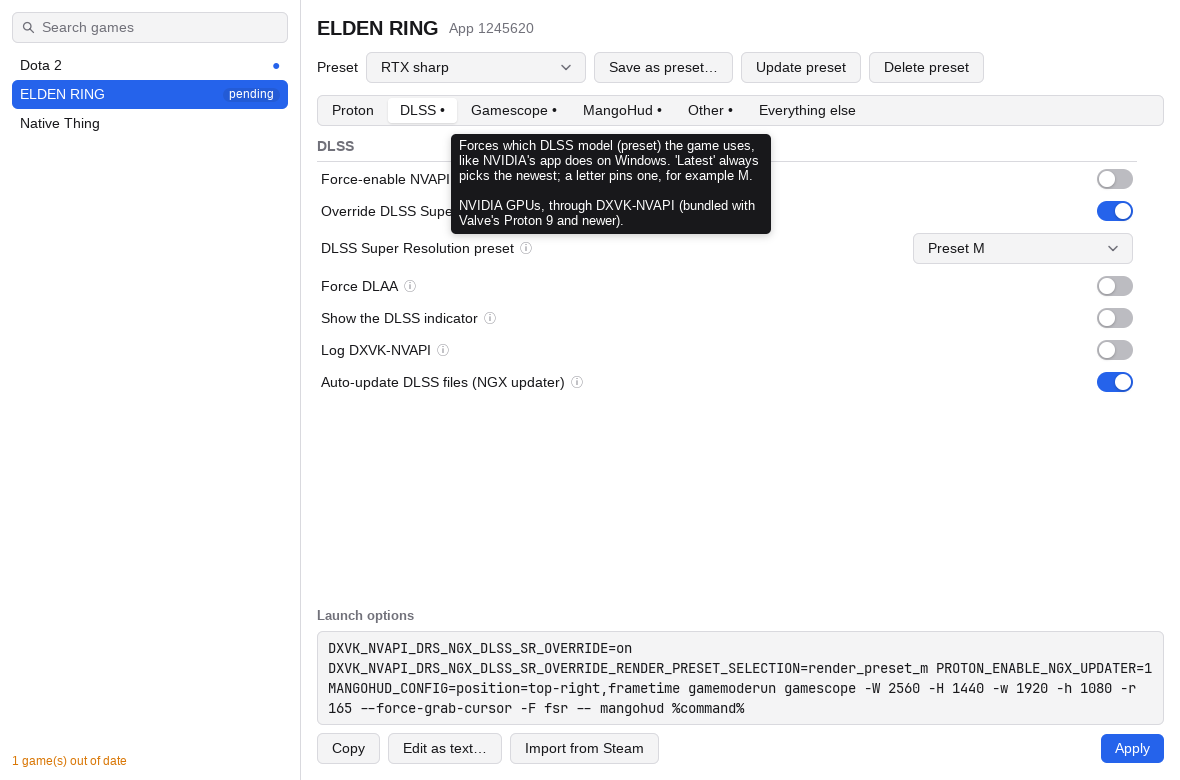
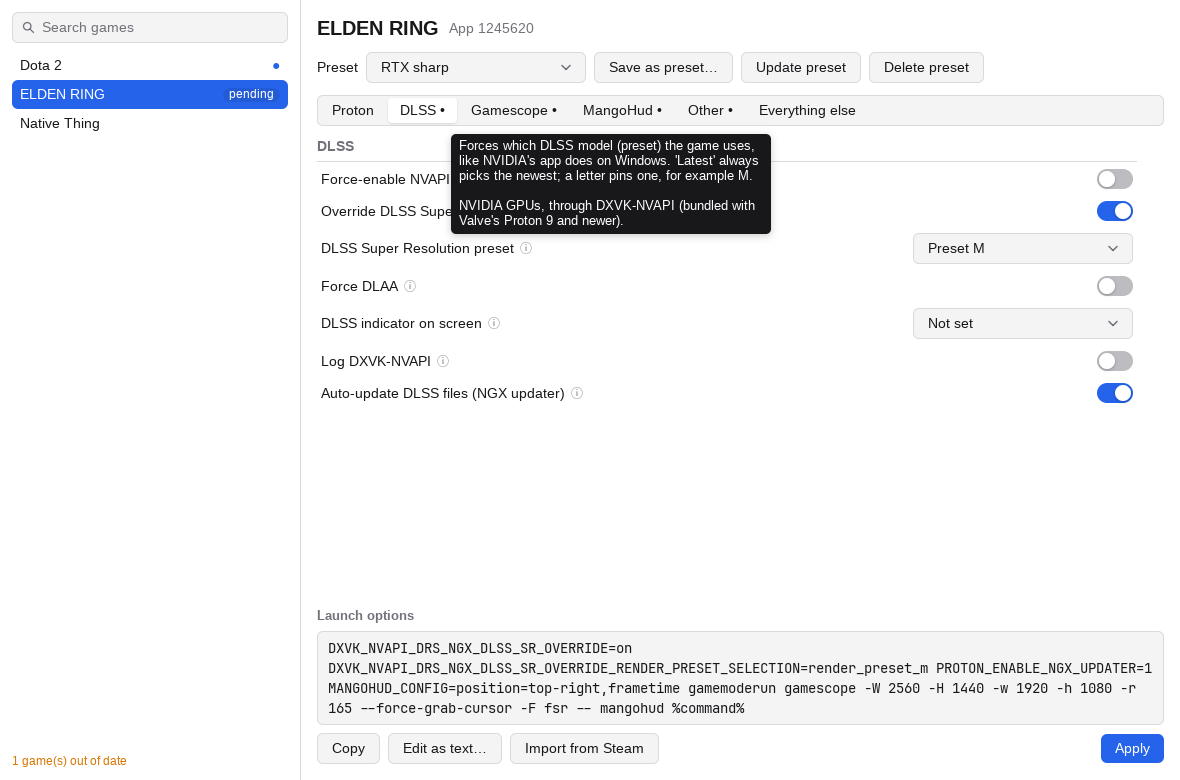
Fix preset relinking, DLSS indicator semantics, platform field and spike safety
Claude-Session: https://claude.ai/code/session_01Uzzph7hZFHLNwT3RTSzUhu

Changed region(s): [[0.2746, 0.4, 0.4881, 0.5231], [0.9153, 0.4, 0.9763, 0.5231], [0.7932, 0.4, 0.8237, 0.4308]]

diff --git a/internal/catalog/data.go b/internal/catalog/data.go
@@ -102,9 +102,10 @@ func Default() *Catalog {
 		{ID: "dlss.dlaa", Group: "DLSS", Label: "Force DLAA", Support: supportNVAPI,
 			Help: "DLAA runs DLSS at the full render resolution for the best anti-aliasing instead of upscaling. Forces it on in games that offer DLSS.",
 			Kind: Bool, Slot: SlotEnv, Name: "DXVK_NVAPI_DRS_NGX_DLAA_OVERRIDE", OnValue: "on"},
-		{ID: "dlss.indicator", Group: "DLSS", Label: "Show the DLSS indicator", Support: supportNVAPI + " Permanently changes the game's Wine registry.",
-			Help: "Shows NVIDIA's on-screen DLSS and frame generation indicator, so you can see that DLSS is active and which preset is used. It writes to the Wine prefix registry and stays on until you turn it off in this tool.",
-			Kind: Bool, Slot: SlotEnv, Name: "DXVK_NVAPI_SET_NGX_DEBUG_OPTIONS", OnValue: "DLSSIndicator=1024,DLSSGIndicator=2"},
+		{ID: "dlss.indicator", Group: "DLSS", Label: "DLSS indicator on screen", Support: supportNVAPI + " Permanently changes the game's Wine registry.",
+			Help: "Show displays NVIDIA's on-screen DLSS and frame generation indicator, so you can see that DLSS is active. The setting is written to the game's Wine prefix registry and STAYS after you remove this option. To get rid of the indicator, set Hide and start the game once, then set it back to Not set.",
+			Kind: Select, Slot: SlotEnv, Name: "DXVK_NVAPI_SET_NGX_DEBUG_OPTIONS",
+			Choices: []Choice{{"DLSSIndicator=1024,DLSSGIndicator=2", "Show"}, {"DLSSIndicator=0,DLSSGIndicator=0", "Hide (clears a shown indicator)"}}},
 		{ID: "dlss.log", Group: "DLSS", Label: "Log DXVK-NVAPI", Support: supportNVAPI,
 			Help: "Prints DXVK-NVAPI log messages. Useful when DLSS does not show up in a game.",
 			Kind: Bool, Slot: SlotEnv, Name: "DXVK_NVAPI_LOG_LEVEL", OnValue: "info"},

diff --git a/internal/store/store_test.go b/internal/store/store_test.go
@@ -28,12 +28,22 @@ func TestPresetCRUDAndPersistence(t *testing.T) {
 		t.Fatal(err)
 	}
 	a, _ := s.SavePreset(Preset{Name: "Native 1440p 165Hz!", Selection: mk(c, "gs.out_w", "2560")})
-	b, _ := s.SavePreset(Preset{Name: "Native 1440p 165Hz!", Selection: catalog.Selection{}})
+	b, _ := s.SavePreset(Preset{Name: "Native 1440p 165Hz?", Selection: catalog.Selection{}}) // same slug, different name
 	if a.ID != "native-1440p-165hz" || b.ID != "native-1440p-165hz-2" {
 		t.Fatalf("ids %q %q", a.ID, b.ID)
 	}
 	if _, err := s.SavePreset(Preset{Name: "  "}); err == nil {
 		t.Error("empty name accepted")
+	}
+	if _, err := s.SavePreset(Preset{Name: "native 1440P 165hz!"}); err == nil {
+		t.Error("duplicate name (case-insensitive) accepted")
+	}
+	if _, err := s.SavePreset(Preset{Name: "no preset"}); err == nil {
+		t.Error("reserved name accepted")
+	}
+	// renaming a preset to its own name, or updating it, is fine
+	if _, err := s.SavePreset(Preset{ID: a.ID, Name: "Native 1440p 165Hz!", Selection: a.Selection}); err != nil {
+		t.Errorf("updating a preset failed: %v", err)
 	}
 	// custom pieces are stripped from presets
 	p, _ := s.SavePreset(Preset{Name: "x", Selection: catalog.Selection{CustomArgs: []string{"-a"}}})
@@ -46,7 +56,7 @@ func TestPresetCRUDAndPersistence(t *testing.T) {
 	if err != nil {
 		t.Fatal(err)
 	}
-	if len(s2.Presets()) != 3 {
+	if len(s2.Presets()) != 3 { // a, b and "x"
 		t.Fatalf("presets %v", s2.Presets())
 	}
 	if got, ok := s2.Assignment("570"); !ok || got.Overrides["gs.refresh"] != "144" {

diff --git a/internal/ui/view.go b/internal/ui/view.go
@@ -6,6 +6,7 @@ import (
 	"github.com/egoist/mygo/ui"
 
 	"github.com/secato/slom/internal/catalog"
+	"github.com/secato/slom/internal/store"
 )
 
 // View builds the whole window.
@@ -141,9 +142,9 @@ func (a *App) steamBanner(c *ui.Context) {
 func (a *App) presetBar(c *ui.Context) {
 	t := c.Theme()
 	presets := a.store.Presets()
-	labels := []string{"No preset"}
-	byLabel := map[string]string{"No preset": ""}
-	cur := "No preset"
+	labels := []string{store.NoPresetLabel}
+	byLabel := map[string]string{store.NoPresetLabel: ""}
+	cur := store.NoPresetLabel
 	for _, p := range presets {
 		labels = append(labels, p.Name)
 		byLabel[p.Name] = p.ID
@@ -153,9 +154,8 @@ func (a *App) presetBar(c *ui.Context) {
 	}
 	ui.Row(c).Gap(8).Children(func() {
 		ui.Text(c, "Preset").Tooltip("A preset is a reusable set of options. A game linked to a preset follows it; the changes you make to this game are kept as its own overrides (marked •).")
-		ui.Select(c.Key("preset"), &cur, labels).Label("Preset").Width(220)
-		if id := byLabel[cur]; id != a.presetID {
-			a.choosePreset(id)
+		if ui.Select(c.Key("preset"), &cur, labels).Label("Preset").Width(220).Changed() {
+			a.choosePreset(byLabel[cur])
 		}
 		ui.Button(c, "Save as preset…").Tooltip("Save the current settings as a new preset and link this game to it.").OnClick(func() {
 			a.presetName, a.savingPreset = "", true

diff --git a/internal/store/store.go b/internal/store/store.go
@@ -16,6 +16,9 @@ import (
 	"github.com/secato/slom/internal/catalog"
 )
 
+// NoPresetLabel is what the UI shows for a game without a preset, so no preset may use it.
+const NoPresetLabel = "No preset"
+
 // Preset is a named, reusable selection.
 type Preset struct {
 	ID        string            `json:"id"`
@@ -156,8 +159,16 @@ func (s *Store) SavePreset(p Preset) (Preset, error) {
 	if p.Name == "" {
 		return Preset{}, errors.New("a preset needs a name")
 	}
+	if strings.EqualFold(p.Name, NoPresetLabel) {
+		return Preset{}, fmt.Errorf("%q is reserved; pick another name", NoPresetLabel)
+	}
 	s.mu.Lock()
 	defer s.mu.Unlock()
+	for _, q := range s.presets {
+		if q.ID != p.ID && strings.EqualFold(q.Name, p.Name) {
+			return Preset{}, fmt.Errorf("a preset named %q already exists", q.Name)
+		}
+	}
 	p.Selection = p.Selection.Clone()
 	// A preset is a set of options; verbatim pieces of one game's launch line do not belong in it.
 	p.Selection.CustomEnv, p.Selection.CustomWrap, p.Selection.CustomArgs, p.Selection.ExtraArgs = nil, nil, nil, nil

diff --git a/internal/ui/ui_test.go b/internal/ui/ui_test.go
@@ -123,6 +123,28 @@ func TestPresetFlow(t *testing.T) {
 	}
 }
 
+func TestPresetBarDoesNotRelinkGames(t *testing.T) {
+	a := testApp(t)
+	tt := ui.NewTester(a.View, 1180, 780)
+	tt.Click("Dota 2")
+	a.saveAsPreset("Alpha")
+	if err := a.store.SetAssignment("570", store.Assignment{PresetID: "alpha", Overrides: map[string]string{"gs.refresh": "60"}}); err != nil {
+		t.Fatal(err)
+	}
+	a.selectGame(a.cur)
+	// a second preset can no longer share the name, so the select's label is unambiguous
+	if _, err := a.store.SavePreset(store.Preset{Name: "alpha"}); err == nil {
+		t.Fatal("duplicate preset name accepted")
+	}
+	for range 5 {
+		tt.Frame()
+	}
+	as, _ := a.store.Assignment("570")
+	if a.presetID != "alpha" || as.PresetID != "alpha" || as.Overrides["gs.refresh"] != "60" {
+		t.Fatalf("frames relinked the game: preset %q, assignment %+v", a.presetID, as)
+	}
+}
+
 func TestMissingToolDisablesOption(t *testing.T) {
 	a := testApp(t)
 	a.tools = catalog.Tools{"gamescope": true, "mangohud": true, "gamemoderun": false}

diff --git a/internal/render/render_test.go b/internal/render/render_test.go
@@ -37,7 +37,7 @@ func TestRender(t *testing.T) {
 		{"custom pieces keep their place",
 			catalog.Selection{CustomEnv: []string{"FOO=bar"}, CustomWrap: []string{"taskset", "-c", "0-3"}, CustomArgs: []string{"-windowed", "'a b'"}},
 			all, "FOO=bar taskset -c 0-3 %command% -windowed 'a b'"},
-		{"indicator value is not mangled", sel(c, "dlss.indicator", "1"),
+		{"indicator value is not mangled", sel(c, "dlss.indicator", "DLSSIndicator=1024,DLSSGIndicator=2"),
 			all, "DXVK_NVAPI_SET_NGX_DEBUG_OPTIONS=DLSSIndicator=1024,DLSSGIndicator=2 %command%"},
 	}
 	for _, tc := range tests {

diff --git a/internal/catalog/catalog_test.go b/internal/catalog/catalog_test.go
@@ -10,6 +10,9 @@ func TestDefaultCatalogIsWellFormed(t *testing.T) {
 	c := Default() // New panics on duplicate ids or dangling references
 	seen := map[string]bool{}
 	for _, o := range c.Options {
+		if o.Platform != "linux" {
+			t.Errorf("%s: platform %q, want linux for v1", o.ID, o.Platform)
+		}
 		if o.Label == "" || o.Help == "" || o.Group == "" {
 			t.Errorf("%s: label, help and group are required (tooltips are mandatory)", o.ID)
 		}

diff --git a/internal/catalog/option.go b/internal/catalog/option.go
@@ -47,6 +47,9 @@ type Option struct {
 	Help    string // tooltip text: what it does and when to use it
 	Support string // which Proton builds or hardware it works with; shown in the tooltip
 
+	// Platform is the OS the option applies to; New fills in "linux" when empty.
+	Platform string
+
 	Kind Kind
 	Slot Slot
 	Name string // env variable, wrapper program, flag or config key, as rendered

diff --git a/internal/catalog/selection.go b/internal/catalog/selection.go
@@ -61,6 +61,9 @@ func New(opts []Option) *Catalog {
 	c := &Catalog{Options: opts, byID: map[string]*Option{}}
 	for i := range c.Options {
 		o := &c.Options[i]
+		if o.Platform == "" {
+			o.Platform = "linux"
+		}
 		if _, dup := c.byID[o.ID]; dup {
 			panic("catalog: duplicate option id " + o.ID)
 		}

diff --git a/docs/SPIKE-TEST-BUTTON.md b/docs/SPIKE-TEST-BUTTON.md
@@ -13,12 +13,16 @@ and drop Test if it does not carry wrappers and env vars.
   match what Steam really does, so a "test" could mislead.
 
 ## Not verified empirically
-Running the real experiment starts the user's Steam and touches their session, so it was
-not done automatically. `scripts/spike-test-launch.sh <appid>` runs it safely (its wrapper
-records what Steam passed and never starts the game). Run it with Steam open:
+The decision above rests on documentation, **not on running the experiment**, even though
+the owner asked for a real spike. Running it launches a game through the owner's Steam, so
+it was not done unattended. `scripts/spike-test-launch.sh <appid>` runs it. Its wrapper
+records what Steam passed and does not start the game, but only if Steam honors the wrapper:
+if Steam treats the URL options as plain game arguments, **the real game starts**, so use an
+offline game without anticheat. Steam may also ask for confirmation, which makes the result
+inconclusive. Run it with Steam open:
 
 - If it prints `RESULT: works`, Test can be built: in `internal/ui`, a "Test" button next to
   Apply that calls `install.Start("steam://run/<id>//<url-encoded options>/")` (Steam must
   be running, the opposite of Apply), with a note that the launch is temporary and Apply
   makes it permanent.
-- Otherwise nothing to do; the UI already has no Test button.
+- If it reports no wrapper ran (and no confirmation dialog was pending), keep Test dropped; the UI already has no Test button.

diff --git a/docs/PROGRESS.md b/docs/PROGRESS.md
@@ -44,3 +44,14 @@ All milestones are done and committed; `go build ./... && go vet ./... && go tes
 - Proton version selection (`CompatToolMapping` in `config.vdf`) is out of scope for v1.
 - The UI has only been exercised through MyGo's `Tester` and an 8 s real launch smoke test; a human pass on a real desktop (Apply against a real Steam, Flatpak Steam, multiple accounts) is still due.
 - Windows support: the catalog has no platform field in use yet (the spec reserved one); `steam/detach_linux.go` is Linux-only.
+
+## Follow-up fixes after review
+- Preset names are unique (case-insensitive) and "No preset" is reserved (`store.SavePreset`); the preset select only relinks on `Changed()` (it used to relink games every frame when names collided).
+- DLSS indicator is a Show/Hide select (see CATALOG.md).
+- `Option.Platform` exists and is `"linux"` for every option (asserted in tests).
+- Spike script now warns that the game may really start and asks for confirmation.
+
+## Known limitations (not fixed)
+- `TokenField` splits on commas, so a custom chip like `WINEDLLOVERRIDES=dxgi=n,b` breaks into two chips. Use "Edit as text…" for such values.
+- Chips are one per token; the spec wanted a chip per unrecognized token *or `-- wrapper` group* (`taskset -c 0-3` shows as three chips).
+- Never exercised against a running Steam: Apply on the real file, "Close Steam, apply, reopen" (`steam -shutdown` + restart), Flatpak Steam, multiple accounts.

diff --git a/docs/CATALOG.md b/docs/CATALOG.md
@@ -19,6 +19,9 @@ The catalog lives in `internal/catalog/data.go`. Every option has a label, a too
 ## Left out on purpose
 `PROTON_FSR4_UPGRADE`, `PROTON_NO_STEAMINPUT`, `PROTON_ENABLE_NVAPI`, `PROTON_DLSS_UPGRADE`: not found in Proton 11.0 or in any source checked. Add them only with a source.
 
+## DLSS indicator caveat
+`DXVK_NVAPI_SET_NGX_DEBUG_OPTIONS` writes NGX registry keys into the game's Wine prefix permanently (dxvk-nvapi README). Removing the option does not hide the indicator: run once with the "Hide" value (`DLSSIndicator=0,DLSSGIndicator=0`). The option is therefore a Show/Hide select, not a switch.
+
 ## Rules the engine enforces
 - `Host`: a wrapper flag or config item needs its wrapper (gamescope, mangohud); `Set` switches the wrapper on and turning the wrapper off clears its options.
 - `Requires`: switched on automatically (`proton.hdr` -> `proton.wayland`, `dlss.sr_preset` -> `dlss.sr_override`).
